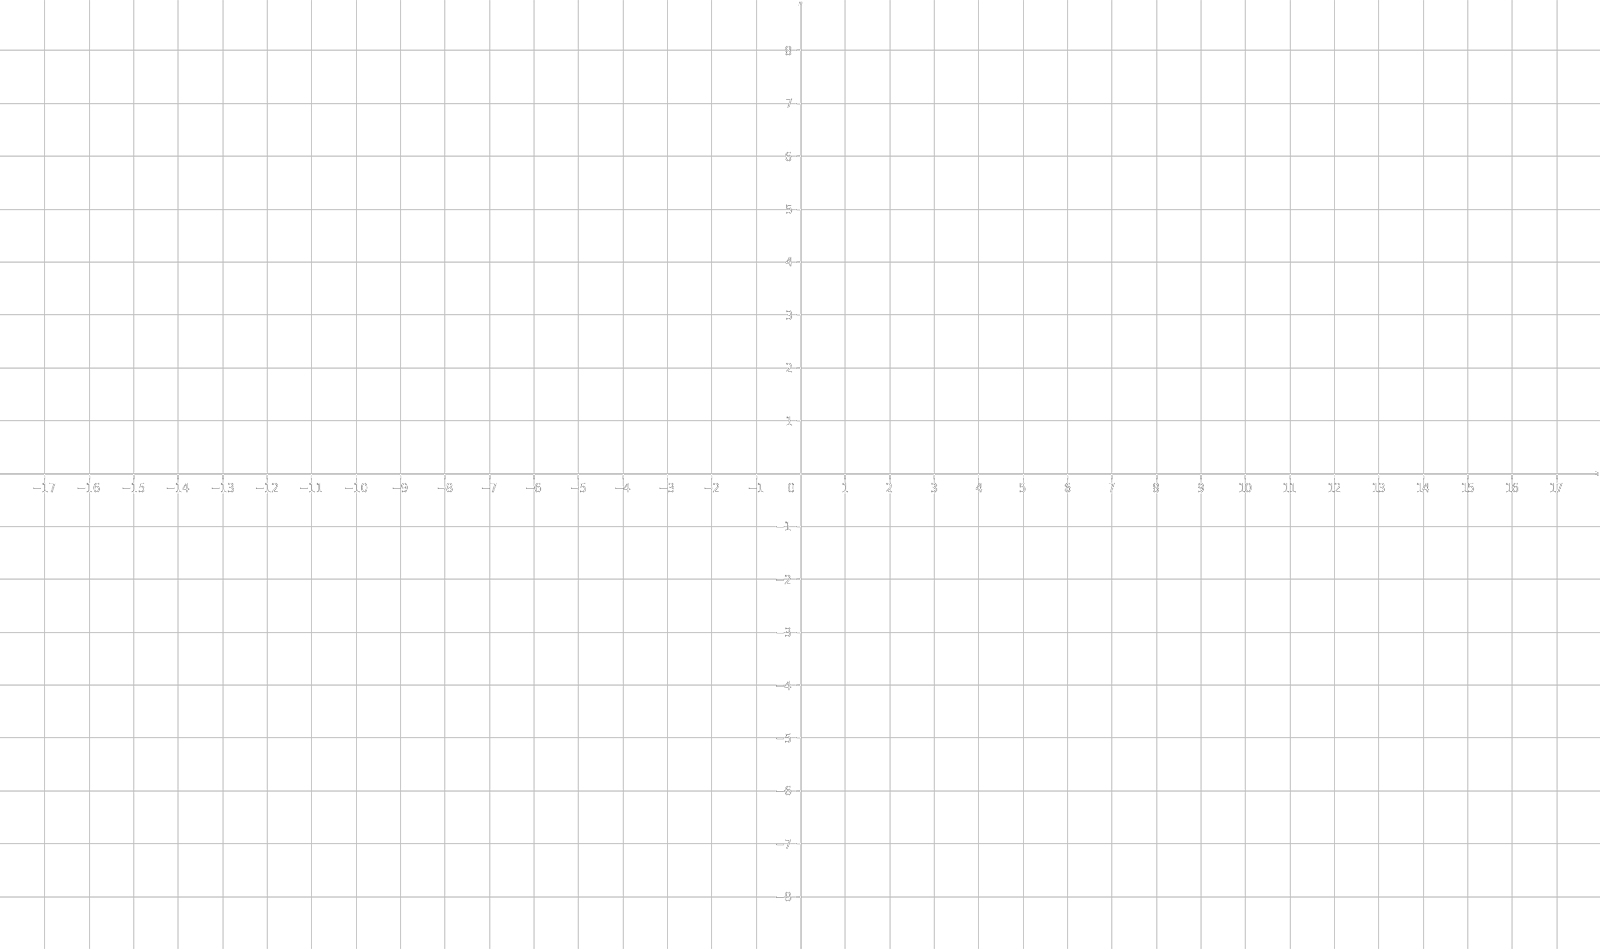
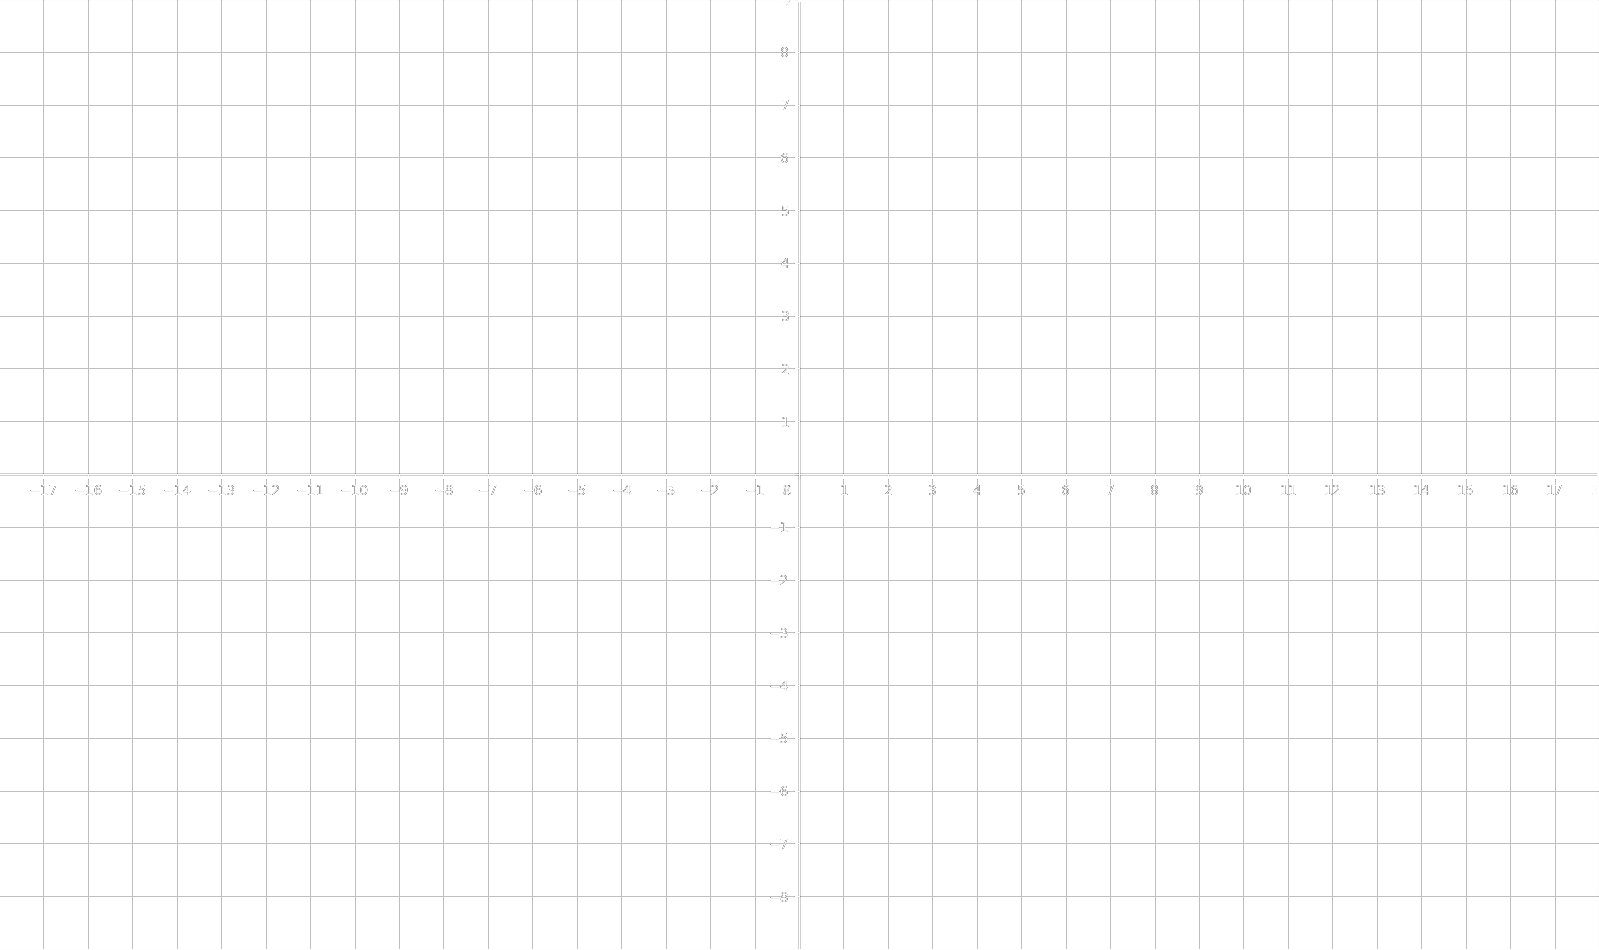
-Digit PI transformation's assets + Global Asset cleaning

diff --git a/Source/Function_Plotting_Pool.py b/Source/Function_Plotting_Pool.py
@@ -19,8 +19,8 @@ fig, ax = plt.subplots(figsize=(fig_width, fig_height), dpi=100)
 # Axis limits
 ax.set_xlim(min(x_data), max(x_data))
 ax.set_ylim(min(y_data), max(y_data))
-ax.axhline(0, color='black',linewidth=2)
-ax.axvline(0, color='black',linewidth=2)
+ax.axhline(0, color='black',linewidth=1)
+ax.axvline(0, color='black',linewidth=1)
 
 # Ticks (Numerical labels)
 ax.xaxis.set_ticks_position('bottom')
@@ -59,7 +59,7 @@ xSqr = [x**2 for x in X]
 
 ## PI-Scape DPI : (43 for X values, 52 for the Y ones)
 
-plt.plot(X, xSqr)
+# plt.plot(X, xSqr)
 
 xSqr = [(x,y) for x,y in zip(X,xSqr)]
 print(xSqr)

diff --git a/Source/Experimental_Zone.py b/Source/Experimental_Zone.py
@@ -25,7 +25,7 @@ run = True
 
 
 ## Quadratics :
-xSqr_Px = [(X[0]*43 + (size[0]/2) + 2 , -X[1]*52 + (size[1]/2)) for X in xSqr]
+xSqr_Px = [(X[0]*43 + (size[0]/2) , -X[1]*52 + (size[1]/2)) for X in xSqr]
 
 while run :
     for event in pg.event.get() :
@@ -37,10 +37,6 @@ while run :
 
     pg.draw.lines(screen, (255, 255, 255), False, xSqr_Px, 3)
 
-    mouse_x, mouse_y = pg.mouse.get_pos()
-
-    # Print the mouse coordinates
-    print(f"Mouse position: ({mouse_x}, {mouse_y})")
     pg.display.flip()
     clock.tick(FPS)
 
